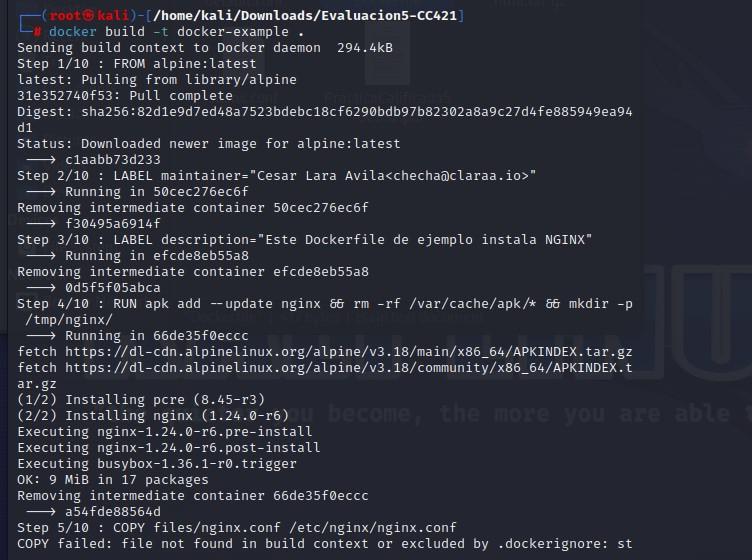
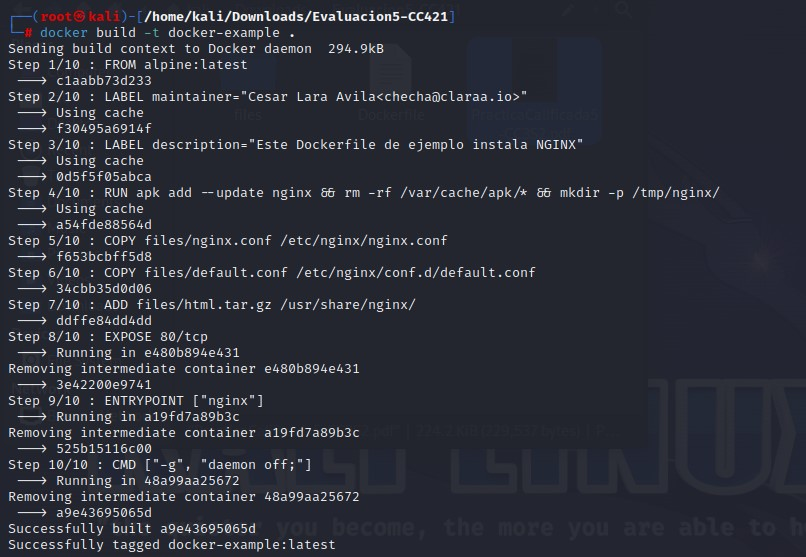
metodo 1 y 2

diff --git a/README.md b/README.md
@@ -4,6 +4,75 @@
 
 ### Metodo 1
 
-Primero creamos el Dockerfile y ejecutamos el comando "docker build -t docker-example ."
+Primero creamos una carpeta llamada "files" donde pondremos los archivos
+default.conf , nginx.conf, html.tar.gz y el Dockerfile lo creamos fuera de la carpeta
+ y ejecutamos el comando "docker build -t docker-example ."
 
 ![](assets/1.jpg)
+
+Luego verificamos que la imagen se ha creado usando docker images
+
+![](assets/2.jpg)
+
+Ahora lanzamos un contenedor con la imagen que hemos creado y comprobamos que se esta ejecutando
+
+![](assets/3.jpg)
+
+Ahora abrimos localhost:8080 en el navegador
+
+![](assets/4.jpg)
+
+Ejecutamos los siguiente comandos
+
+![](assets/5.jpg)
+
+![](assets/6.jpg)
+
+Detenemos y eliminamos los contenedores que lanzamos
+
+![](assets/7.jpg)
+
+### Metodo 2
+
+Descargaremos la imagen con el siguiente comando "docker image pull alpine:lastest"
+
+![](assets/8.jpg)
+
+Luego ejecutamos el contenedor en primer plano usando "-it", y ejecutamos los siguientes comandos
+
+![](assets/9.jpg)
+
+Luego guardamos el contenedor
+
+![](assets/10.jpg)
+
+### Metodo 3
+
+ 
+
+
+
+
+
+
+
+
+
+
+
+
+
+
+
+
+
+
+
+
+
+
+
+
+
+
+
